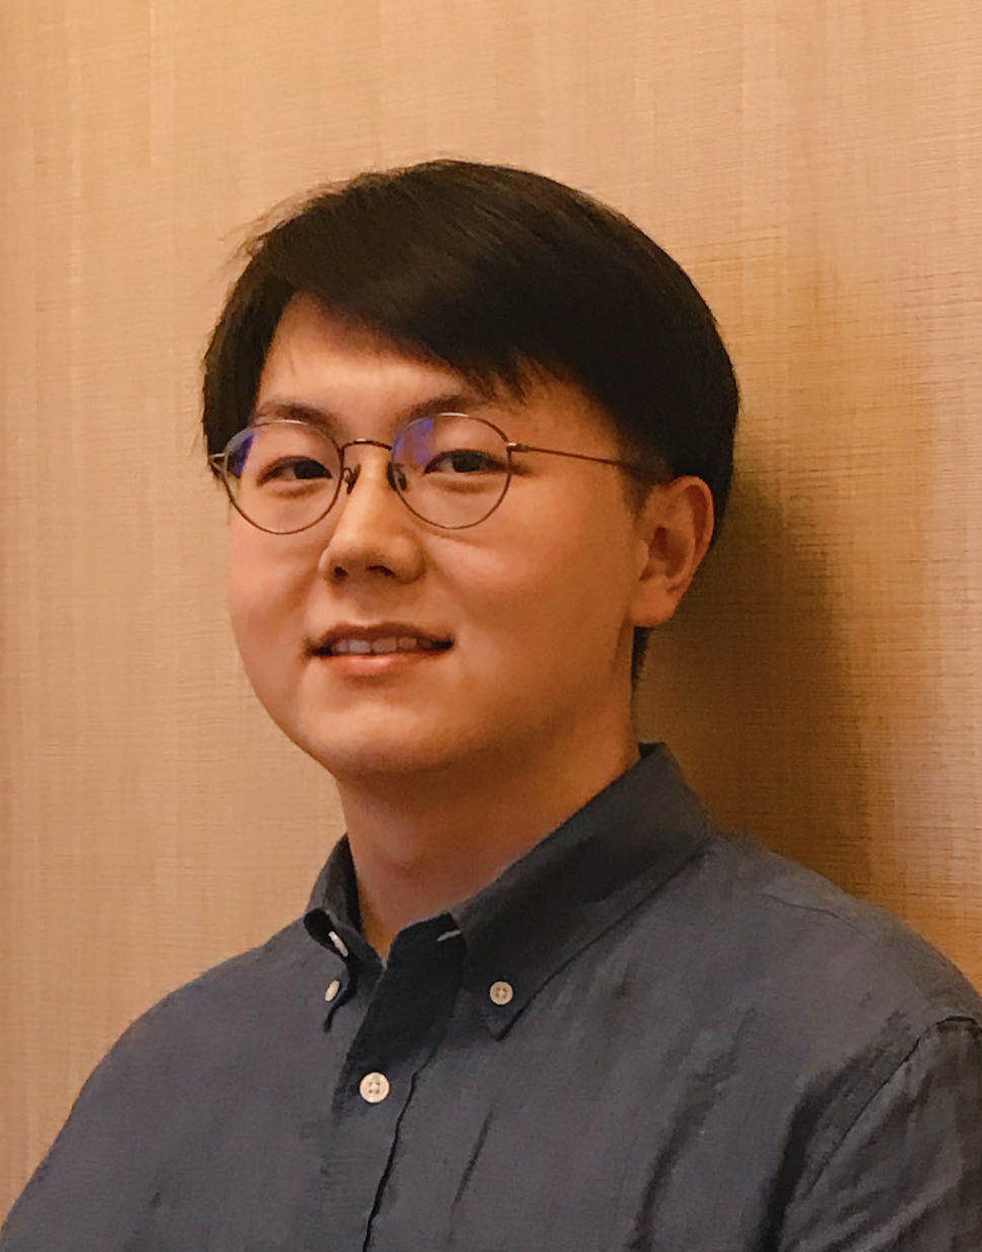
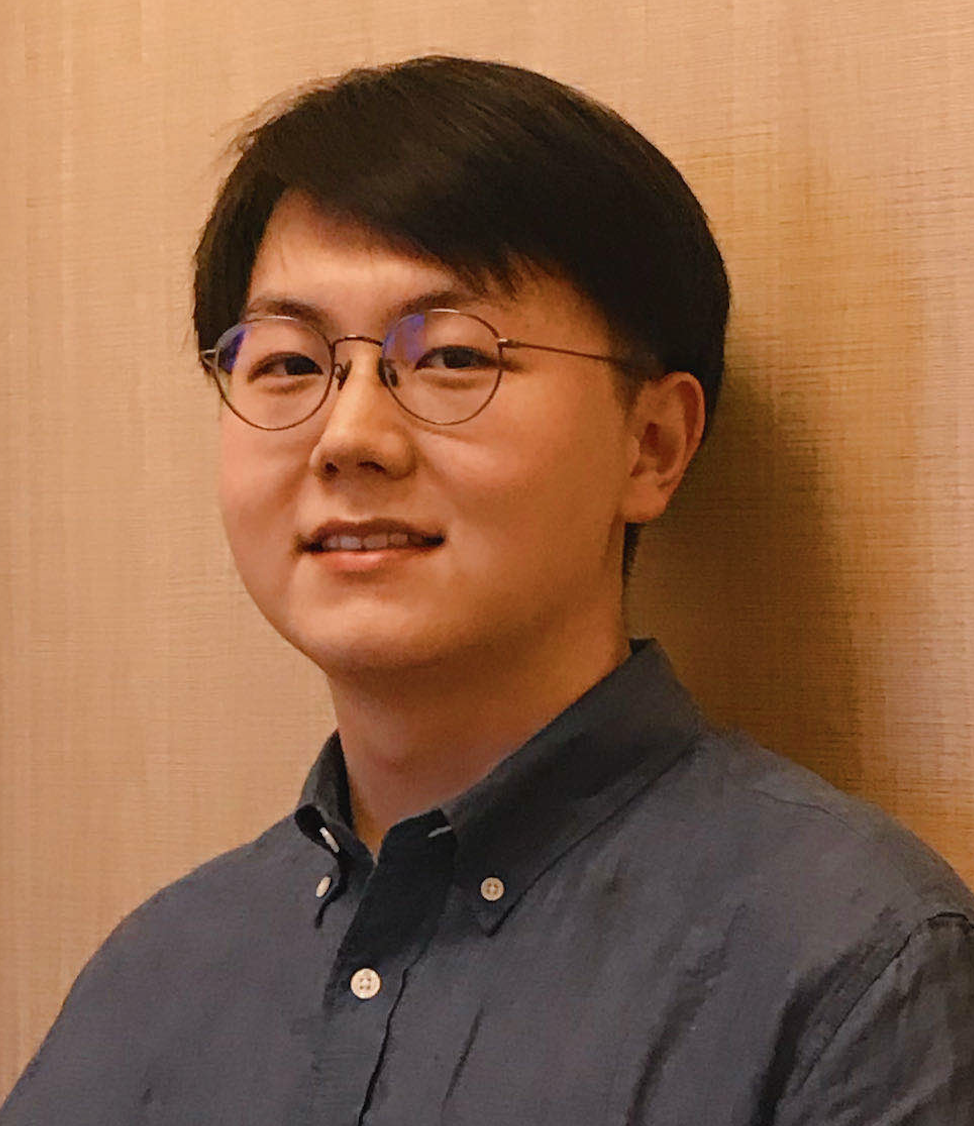
update papers, images

diff --git a/_site/members/index.html b/_site/members/index.html
@@ -348,7 +348,7 @@
       <li>
         <div class="team_member">
            <div class="info">
-            <img src="/photos/irene_li.jpeg ">
+            <img src="/photos/irene.png ">
            
            <h5>Irene Li</h5> 
            <h6>PhD Student</h6>
@@ -386,7 +386,7 @@
       <li>
         <div class="team_member">
            <div class="info">
-            <img src="/photos/ansong.jpg ">
+            <img src="/photos/ansong.png ">
            
            <h5>Ansong Ni</h5> 
            <h6>PhD Student</h6>
@@ -678,6 +678,20 @@
            
            <h5>Eric Xue</h5> 
            <h6>2022</h6>
+           
+           
+           
+          </div>
+        </div>
+      </li>
+    
+      <li>
+        <div class="team_member">
+           <div class="info">
+            <img src="/photos/vincent_zhang.png ">
+           
+           <h5>Vincent Zhang</h5> 
+           <h6>2021</h6>
            
            
            
@@ -1415,7 +1429,7 @@
 
 
 <div class="col-md-3"><div><a href="https://ireneli.eu/">
-<img class="img-thumbnail" src="/photos/irene_li.jpeg"></a></div>
+<img class="img-thumbnail" src="/photos/irene.png"></a></div>
 <div style="margin-bottom:20px"><center><h4>Irene Li</h4></center></div> </div>
                           
             <p>
@@ -1453,7 +1467,7 @@
 
 
 <div class="col-md-3"><div><a href="https://niansong1996.github.io/">
-<img class="img-thumbnail" src="/photos/ansong.jpg"></a></div>
+<img class="img-thumbnail" src="/photos/ansong.png"></a></div>
 <div style="margin-bottom:20px"><center><h4>Ansong Ni</h4></center></div> </div>
                           
             <p>
@@ -1761,6 +1775,22 @@
             <p>
                     
                         Eric Xue <br>2022
+                        <br>
+                    
+                    
+                    
+                </p>
+
+
+
+
+<div class="col-md-3"><div><a href="">
+<img class="img-thumbnail" src="/photos/vincent_zhang.png"></a></div>
+<div style="margin-bottom:20px"><center><h4>Vincent Zhang</h4></center></div> </div>
+                          
+            <p>
+                    
+                        Vincent Zhang <br>2021
                         <br>
                     
                     

diff --git a/_site/publications/index.html b/_site/publications/index.html
@@ -279,6 +279,48 @@
 
 
   <tr><td style="padding:10px">
+<img width="250px" src="/images/txt2sqleval.png" /> 
+</td><td style="padding:10px">
+<a class="paper" href="https://arxiv.org/pdf/2010.02840.pdf">
+Semantic Evaluation for Text-to-SQL with Distilled Test Suites
+</a><br />
+Ruiqi Zhong, Tao Yu, Dan Klein<br />
+ARXIV 2020 <br />
+
+<a class="btn btn-labeled btn-primary" href="https://arxiv.org/pdf/2010.02840.pdf">PDF</a>
+
+
+
+
+<br />
+
+</td></tr>
+
+
+
+
+  <tr><td style="padding:10px">
+<img width="250px" src="/images/understandingword.png" /> 
+</td><td style="padding:10px">
+<a class="paper" href="https://www.biorxiv.org/content/10.1101/2020.09.18.304436v1.full.pdf">
+Understanding and Improving Word Embeddings through a Neuroscientific Lens
+</a><br />
+Sam Fereidooni, Viola Mocz, Dragomir Radev, Marvin Chun<br />
+BIORXIV 2020 <br />
+
+<a class="btn btn-labeled btn-primary" href="https://www.biorxiv.org/content/10.1101/2020.09.18.304436v1.full.pdf">PDF</a>
+
+
+
+
+<br />
+
+</td></tr>
+
+
+
+
+  <tr><td style="padding:10px">
 <img width="250px" src="/images/grappa.png" /> 
 </td><td style="padding:10px">
 <a class="paper" href="https://arxiv.org/pdf/2009.13845.pdf">

diff --git a/index.html b/index.html
@@ -19,6 +19,7 @@ weight: 1
     <div class = "">
       <p align="left"> <div class="left"> <i><b>NEWS</b></i> </div> </p>
     <ul>
+	    <li><b><font color="red">Nov. 2020</font></b> Check out our recent preprints: <a href="https://arxiv.org/pdf/2010.02840.pdf">Semantic Evaluation for Text-to-SQL with Distilled Test Suites</a> and <a href="https://www.biorxiv.org/content/10.1101/2020.09.18.304436v1.full.pdf">Understanding and Improving Word Embeddings through a Neuroscientific Lens</a>!
 	    <li><b><font color="red">Jul. 2020</font></b> Check out our recent ArXiv preprints: <a href="https://arxiv.org/pdf/2007.02871.pdf">DART: Open-Domain Structured Data Record to Text Generation</a> and <a href="https://arxiv.org/pdf/2007.12626.pdf">SummEval: Re-evaluating Summarization Evaluation</a>!
 	    <li><b><font color="red">Jul. 2020</font></b> Check out the <a href=https://arxiv.org/pdf/2005.00730.pdf">ESPRIT</a> paper, presented at ACL 2020!
     </ul>

diff --git a/_site/index.html b/_site/index.html
@@ -285,6 +285,7 @@
     <div class = "">
       <p align="left"> <div class="left"> <i><b>NEWS</b></i> </div> </p>
     <ul>
+	    <li><b><font color="red">Nov. 2020</font></b> Check out our recent preprints: <a href="https://arxiv.org/pdf/2010.02840.pdf">Semantic Evaluation for Text-to-SQL with Distilled Test Suites</a> and <a href="https://www.biorxiv.org/content/10.1101/2020.09.18.304436v1.full.pdf">Understanding and Improving Word Embeddings through a Neuroscientific Lens</a>!
 	    <li><b><font color="red">Jul. 2020</font></b> Check out our recent ArXiv preprints: <a href="https://arxiv.org/pdf/2007.02871.pdf">DART: Open-Domain Structured Data Record to Text Generation</a> and <a href="https://arxiv.org/pdf/2007.12626.pdf">SummEval: Re-evaluating Summarization Evaluation</a>!
 	    <li><b><font color="red">Jul. 2020</font></b> Check out the <a href=https://arxiv.org/pdf/2005.00730.pdf">ESPRIT</a> paper, presented at ACL 2020!
     </ul>
